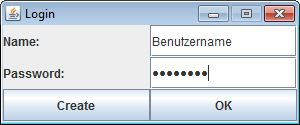
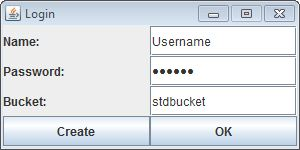
GUI documentation and standard Username.

diff --git a/doc/LaTeX/IS_Projekt.tex b/doc/LaTeX/IS_Projekt.tex
@@ -560,7 +560,7 @@ Erläuterung des eingesetzten Kryptosystems und Untersuchung dessen Sicherheit
 Nachfolgend wird die Oberfläche sowie die Funktionalität des Prototyps beschrieben.
 
 \textbf{Login}
-Bei jedem Systemstart öffnet sich ein PopUp-Fenster mit einer Eingabemaske für die Benutzerauthentifizierung. Existiert der eingegebene Benutzer nicht oder ist das zugehörige Passwort falsch, wird das Login-Fenster neu geladen. Mit Create kann ein neuer Benutzer angelegt werden. Desweiteren muss der Anwender das Bucket, auf dem er arbeiten möchte, eintragen. Der Authentifizierungsvorgang beginnt durch Bestätigung mit OK.
+
 \vspace{1em}
 $\;$\\
 \begin{minipage}{\linewidth}
@@ -569,7 +569,7 @@ $\;$\\
 	\captionof{figure}{\small Login}
 	\label{Login}
 \end{minipage}
-\vspace{1em}
+\\\\Bei jedem Systemstart öffnet sich ein PopUp-Fenster mit einer Eingabemaske für die Benutzerauthentifizierung. Existiert der eingegebene Benutzer nicht oder ist das zugehörige Passwort falsch, wird das Login-Fenster neu geladen. Mit Create kann ein neuer Benutzer angelegt werden. Desweiteren muss der Anwender das Bucket, auf dem er arbeiten möchte, eintragen. Der Authentifizierungsvorgang beginnt durch Bestätigung mit OK.
 
 \textbf{Account erstellen}
 \vspace{1em}
@@ -580,7 +580,8 @@ $\;$\\
 	\captionof{figure}{\small Account erstellen}
 	\label{Create}
 \end{minipage}
-\vspace{1em}
+\\\\Durch betätigen der Create-Auswahl im Login-Fenster öffnet sich ein weiteres PopUp, in dem ein Benutzer angelegt werden kann.
+
 
 \textbf{Hauptfenster}
 \vspace{1em}

diff --git a/src/SecuCloud/src/view/LoginWindow.java b/src/SecuCloud/src/view/LoginWindow.java
@@ -118,8 +118,8 @@ public class LoginWindow extends JFrame {
 		this.add(createButton);
 		this.add(okButton);
 
-		nameTextField.setText("fenix");
-		passwordTextField.setText("183461");
+		nameTextField.setText("Username");
+		passwordTextField.setText("Password");
 		bucketTextField.setText("stdbucket");
 
 		this.pack();
